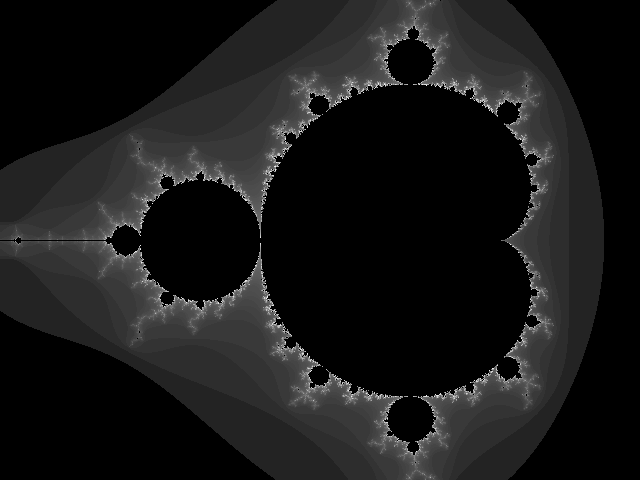
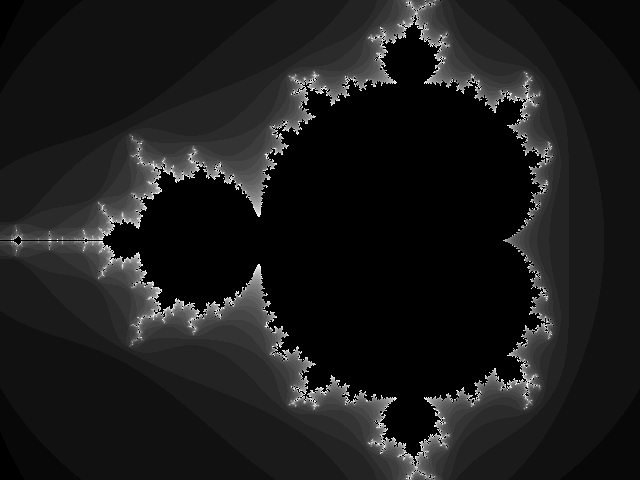
Add PNGExporter

diff --git a/src/png_exporter.cpp b/src/png_exporter.cpp
@@ -1,0 +1,62 @@
+// Copyright (c) 2016, Kai Wolf. All rights reserved.
+// Use of this source code is governed by a personal license file that can be
+// found in the LICENSE file in the top directory.
+
+#include "mandelbrotpp/exporter.h"
+
+#include <png.h>
+#include <cstdio>
+#include <cstdlib>
+#include "check.h"
+
+namespace mpp {
+
+void PNGExporter::WriteImage(const Image &image) {
+
+    std::FILE *fp = std::fopen("out.png", "wb");
+    CHECK(fp != nullptr) << "Could not open file to write png";
+
+    // initialize write structure
+    auto png = png_create_write_struct(PNG_LIBPNG_VER_STRING, nullptr, nullptr,
+                                       nullptr);
+    CHECK(png != nullptr) << "Could not create png write struct";
+
+    // initialize info structure
+    auto info = png_create_info_struct(png);
+    CHECK(info != nullptr) << "Could not create png info struct";
+
+    // setup error handling
+    if (setjmp(png_jmpbuf(png))) {
+        std::fclose(fp);
+        png_destroy_write_struct(&png, &info);
+        CHECK(false) << "Could not configure png error handling";
+    }
+
+    png_init_io(png, fp);
+
+    // write header (32 bit color depth)
+    png_set_IHDR(png, info, image.width, image.height, 8, PNG_COLOR_TYPE_RGB,
+                 PNG_INTERLACE_NONE, PNG_COMPRESSION_TYPE_BASE,
+                 PNG_FILTER_TYPE_BASE);
+    png_write_info(png, info);
+
+    // allocate memory for one row (3 bytes per pixel - RGB)
+    auto row =
+        static_cast<png_bytep>(std::malloc(3 * image.width * sizeof(png_byte)));
+
+    for (auto y = 0; y < image.height; y++) {
+        for (auto x = 0; x < image.width; x++) {
+            row[x * 3] = image.buffer[y * image.width + x];
+            row[x * 3 + 1] = image.buffer[y * image.width + x];
+            row[x * 3 + 2] = image.buffer[y * image.width + x];
+        }
+        png_write_row(png, row);
+    }
+    png_write_end(png, nullptr);
+    png_free_data(png, info, PNG_FREE_ALL, -1);
+    png_destroy_write_struct(&png, (png_infopp) nullptr);
+    std::free(row);
+
+    std::fclose(fp);
+}
+}

diff --git a/include/mandelbrotpp/exporter.h b/include/mandelbrotpp/exporter.h
@@ -40,8 +40,13 @@ class MandelbrotPPExporter {
     virtual ~MandelbrotPPExporter() = default;
 };
 
-// Simple reporter that outputs the mandelbrot image in the ppm format.
+// Simple reporter that outputs the mandelbrot image in the png format.
 // This is the default export format used.
+class PNGExporter : public MandelbrotPPExporter {
+  public:
+    void WriteImage(const Image &image) override;
+};
+
 class PPMExporter : public MandelbrotPPExporter {
   public:
     void WriteImage(const Image &image) override;
